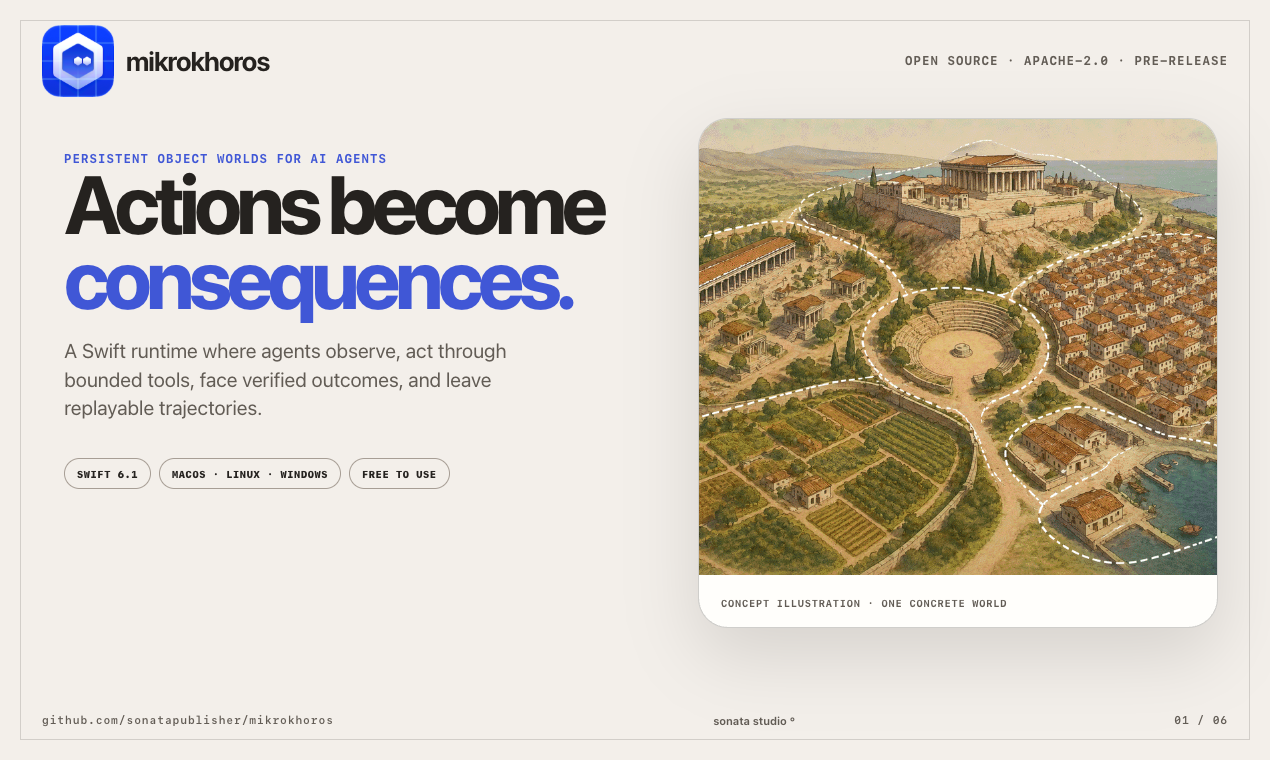
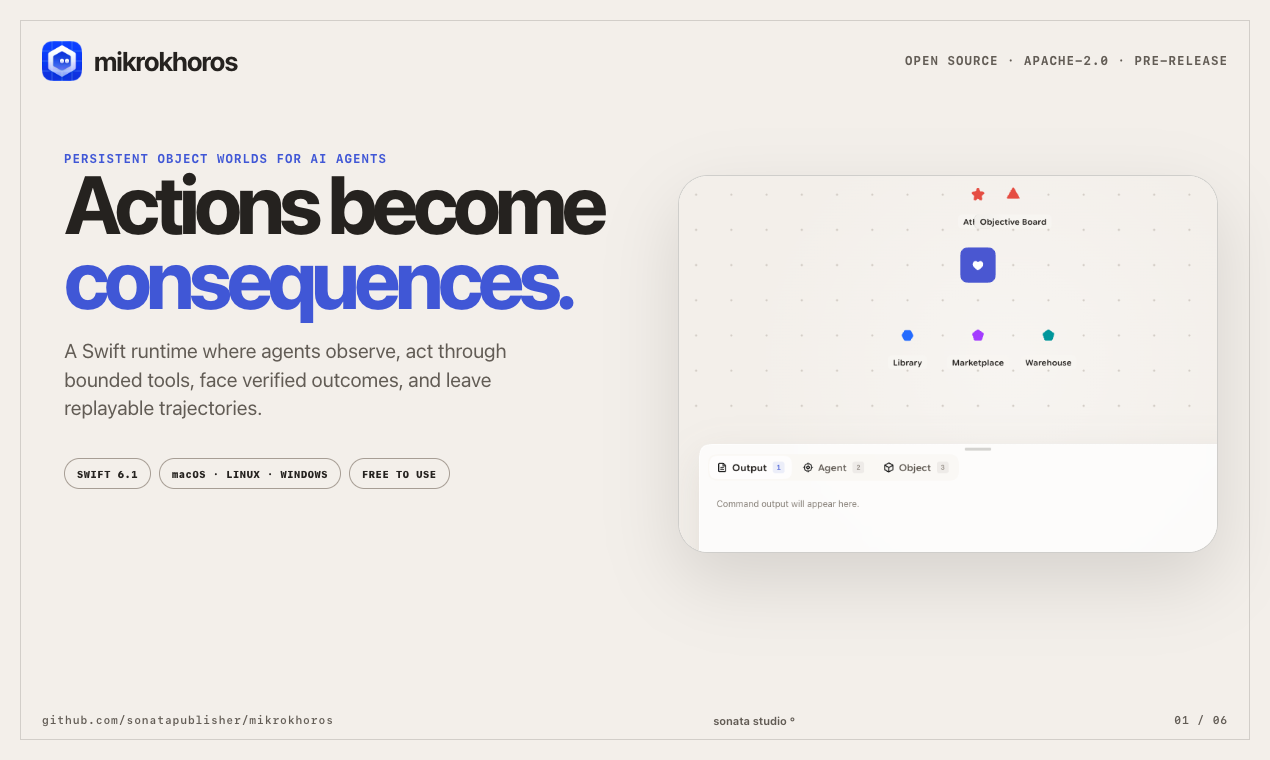
Use real mikrokhoros product captures

Changed region(s): [[0.522, 0.1513, 0.9827, 0.8171], [0.0307, 0.0303, 0.215, 0.1513]]

diff --git a/marketing/product-hunt/index.html b/marketing/product-hunt/index.html
@@ -15,7 +15,7 @@
         <header class="frame-header">
           <div class="product-mark" aria-label="mikrokhoros">
             <img
-              class="product-icon"
+              class="product-icon product-icon--small"
               src="../../assets/mikrokhoros-logo.png"
               alt="mikrokhoros geometric blue icon"
             />
@@ -33,17 +33,17 @@
           </p>
           <div class="fact-row" aria-label="Product facts">
             <span>SWIFT 6.1</span>
-            <span>MACOS · LINUX · WINDOWS</span>
+            <span class="canonical-platform-case">macOS · LINUX · WINDOWS</span>
             <span>FREE TO USE</span>
           </div>
         </section>
 
         <figure class="hero-world">
           <img
-            src="../../assets/mikrokhoros-world-map.png"
-            alt="Illustrated persistent world with connected facilities, neighborhoods, cultivated areas, an amphitheatre, and a harbor"
+            src="./captures/runtime-world.png"
+            alt="Captured mikrokhoros Web World view showing the initialized default-khoros world, one agent, and five named facilities"
           />
-          <figcaption>CONCEPT ILLUSTRATION · ONE CONCRETE WORLD</figcaption>
+          <figcaption>CAPTURED PRE-RELEASE BUILD · DEFAULT-KHOROS WORLD</figcaption>
         </figure>
 
         <footer class="frame-footer">
@@ -129,8 +129,8 @@
 
         <figure class="world-figure">
           <img
-            src="../../assets/mikrokhoros-world-map.png"
-            alt="Illustrated persistent world divided into connected local areas with facilities, paths, resources, and a harbor"
+            src="./captures/runtime-templates.png"
+            alt="Captured mikrokhoros Web Templates view showing the trusted default-khoros template, nine object placements, packages, and coordinates"
           />
         </figure>
 
@@ -150,7 +150,7 @@
         </section>
 
         <footer class="frame-footer frame-footer--over-image">
-          <span>CONCEPT ILLUSTRATION</span>
+          <span>CAPTURED PRE-RELEASE BUILD · TEMPLATES</span>
           <span class="studio-signature">sonata studio °</span>
           <span>03 / 06</span>
         </footer>
@@ -239,19 +239,15 @@
           <pre class="terminal" aria-label="Commands to initialize and open a local world"><code><span>$</span> make install
 <span>$</span> khoros init
 <span>$</span> khoros web</code></pre>
-          <p class="surface-note">MACOS + LINUX QUICK START · WINDOWS VIA POWERSHELL</p>
+          <p class="surface-note canonical-platform-case">macOS + LINUX QUICK START · WINDOWS VIA POWERSHELL</p>
         </section>
 
         <figure class="interface-figure">
-          <div class="interface-chrome" aria-hidden="true">
-            <span></span><span></span><span></span>
-            <b>127.0.0.1 · LOCAL</b>
-          </div>
           <img
-            src="../../docs/assets/design-v2-template-view.png"
-            alt="mikrokhoros Web design reference showing the default-khoros template and its five components"
+            src="./captures/runtime-object-menu.png"
+            alt="Captured mikrokhoros Web World view with the Athena object action menu open over the initialized default-khoros world"
           />
-          <figcaption><span>mikrokhoros</span> Web · product interface reference</figcaption>
+          <figcaption><span>mikrokhoros</span> Web · captured pre-release build</figcaption>
         </figure>
 
         <footer class="frame-footer">
@@ -283,7 +279,7 @@
           </p>
           <div class="platform-strip" aria-label="Supported platforms">
             <span>SWIFT 6.1</span>
-            <span>MACOS 13+</span>
+            <span class="canonical-platform-case">macOS 13+</span>
             <span>LINUX</span>
             <span>WINDOWS</span>
           </div>

diff --git a/marketing/product-hunt/styles.css b/marketing/product-hunt/styles.css
@@ -186,10 +186,10 @@ h1 {
 
 .frame--hero .hero-world {
   position: absolute;
-  top: 118px;
+  top: 175px;
   right: 52px;
-  width: 520px;
-  height: 510px;
+  width: 540px;
+  height: 378px;
   margin: 0;
   overflow: hidden;
   background: var(--paper);
@@ -200,8 +200,10 @@ h1 {
 
 .frame--hero .hero-world img {
   width: 100%;
-  height: 456px;
+  height: 324px;
   object-fit: cover;
+  transform: scale(1.72);
+  transform-origin: 65% 36%;
 }
 
 .frame--hero .hero-world figcaption {
@@ -359,22 +361,24 @@ h1 {
 
 .world-figure {
   position: absolute;
-  inset: 0 470px 0 0;
+  top: 150px;
+  left: 42px;
+  width: 750px;
+  height: 449px;
   margin: 0;
-}
-
-.world-figure::after {
-  position: absolute;
-  inset: 0;
-  pointer-events: none;
-  content: "";
-  background: rgba(18, 18, 16, 0.12);
+  overflow: hidden;
+  background: var(--canvas);
+  border: 1px solid rgba(255, 255, 255, 0.34);
+  border-radius: 22px;
+  box-shadow: 0 28px 70px rgba(0, 0, 0, 0.28);
 }
 
 .world-figure img {
   width: 100%;
   height: 100%;
   object-fit: cover;
+  transform: scale(1.34);
+  transform-origin: 72% 42%;
 }
 
 .world-copy {
@@ -573,10 +577,10 @@ h1 {
 
 .interface-figure {
   position: absolute;
-  top: 130px;
+  top: 142px;
   right: 46px;
   width: 700px;
-  height: 510px;
+  height: 490px;
   margin: 0;
   overflow: hidden;
   background: #ffffff;
@@ -587,34 +591,16 @@ h1 {
 
 .interface-figure img {
   width: 700px;
-  height: 466px;
+  height: 446px;
   object-fit: cover;
-  object-position: left top;
+  object-position: center top;
+  transform: scale(1.45);
+  transform-origin: 67% 36%;
 }
 
-.interface-chrome {
-  display: flex;
-  gap: 6px;
-  align-items: center;
-  height: 34px;
-  padding: 0 14px;
-  background: var(--surface);
-  border-bottom: 1px solid var(--line);
-}
-
-.interface-chrome span {
-  width: 8px;
-  height: 8px;
-  background: var(--line-strong);
-  border-radius: 50%;
-}
-
-.interface-chrome b {
-  margin-left: auto;
-  color: var(--ink-soft);
-  font-family: var(--mono);
-  font-size: 9px;
-  letter-spacing: 0.08em;
+.canonical-platform-case,
+.platform-strip .canonical-platform-case {
+  text-transform: none;
 }
 
 .interface-figure figcaption {

diff --git a/marketing/product-hunt/README.md b/marketing/product-hunt/README.md
@@ -8,21 +8,34 @@ This folder owns the HTML source and review PNGs for the `mikrokhoros` Product H
 - Gallery count: six still frames.
 - Product facts: [`../../docs/public-facts.json`](../../docs/public-facts.json).
 - Product behavior: [`../../README.md`](../../README.md) and [`../../docs/design.md`](../../docs/design.md).
-- Approved assets: three checksum-pinned gallery inputs selected from the four approved images in the public fact sheet.
+- Approved brand asset: the checksum-pinned product icon in the public fact sheet.
+- Product imagery: three checksum-pinned captures from the running native `khoros` product.
 - Current implementation branch baseline: `bdf247be974ded9e97c3380dbfb2eb646503d960`.
 
 Every frame is local-only HTML/CSS. It has no remote font, remote image, analytics, form, cookie, or network dependency.
 
 ## Narrative order
 
-1. **Actions become consequences.** A standalone product promise with the persistent-world illustration.
+1. **Actions become consequences.** A standalone product promise with the initialized `default-khoros` World view.
 2. **Agents act. Worlds answer.** The observation-to-consequence loop.
-3. **A place an agent can understand.** Locality, facilities, paths, resources, objects, and records.
+3. **A place an agent can understand.** The live trusted-template view shows packages, placements, and coordinates.
 4. **Objects are first-class.** Object SDK → package → Inventory → world-object lifecycle.
-5. **Full CLI. Local Web.** The two human surfaces owned by the native `khoros` runtime.
+5. **Full CLI. Local Web.** The command surface sits beside a captured World object interaction from the same native runtime.
 6. **Open source. Free to use.** Apache-2.0, supported platforms, repository, and first local commands.
 
-The illustrations in frames 1 and 3 are labelled as concept illustrations. The interface image in frame 5 is labelled as a pre-release product-interface reference. Its command block is explicitly scoped to macOS and Linux; Windows installation remains the documented PowerShell path.
+Frames 1, 3, and 5 identify their imagery as captured pre-release product output. The frame 5 command block is explicitly scoped to macOS and Linux; Windows installation remains the documented PowerShell path.
+
+## Runtime capture provenance
+
+- Runtime source: public `main` revision `bdf247be974ded9e97c3380dbfb2eb646503d960`.
+- Executable: release `khoros` built from the checked-out Swift package.
+- State: a new isolated `MIKROKHOROS_HOME` initialized with `khoros init`.
+- Interface: the native loopback `mikrokhoros Web` surface opened from the one-time launch URL printed by `khoros web`.
+- Capture canvas: `1270×760` CSS pixels at 1× device scale.
+- External model configuration: none.
+- Provider calls: none.
+
+The captured state contains one unprofiled local agent, five canonical Inventory sources, and the `default-khoros` world template. The launch token, filesystem path, and generated runtime identifiers are not part of the gallery copy.
 
 ## Render
 
@@ -35,7 +48,7 @@ marketing/product-hunt/index.html?frame=1
 Set the browser viewport to exactly `1270×760` CSS pixels and capture the viewport at 1× device scale. Repeat for `frame=1` through `frame=6`.
 
 The review files belong in [`drafts/`](./drafts/), named in narrative order. Each PNG must remain under Product Hunt's 3 MB limit.
-[`drafts/manifest.json`](./drafts/manifest.json) binds each review export to its dimensions, byte size, SHA-256 digest, baseline revision, and approved source assets.
+[`drafts/manifest.json`](./drafts/manifest.json) binds each review export to its dimensions, byte size, SHA-256 digest, baseline revision, approved brand source, and runtime-capture inputs.
 
 ## Review boundary
 
